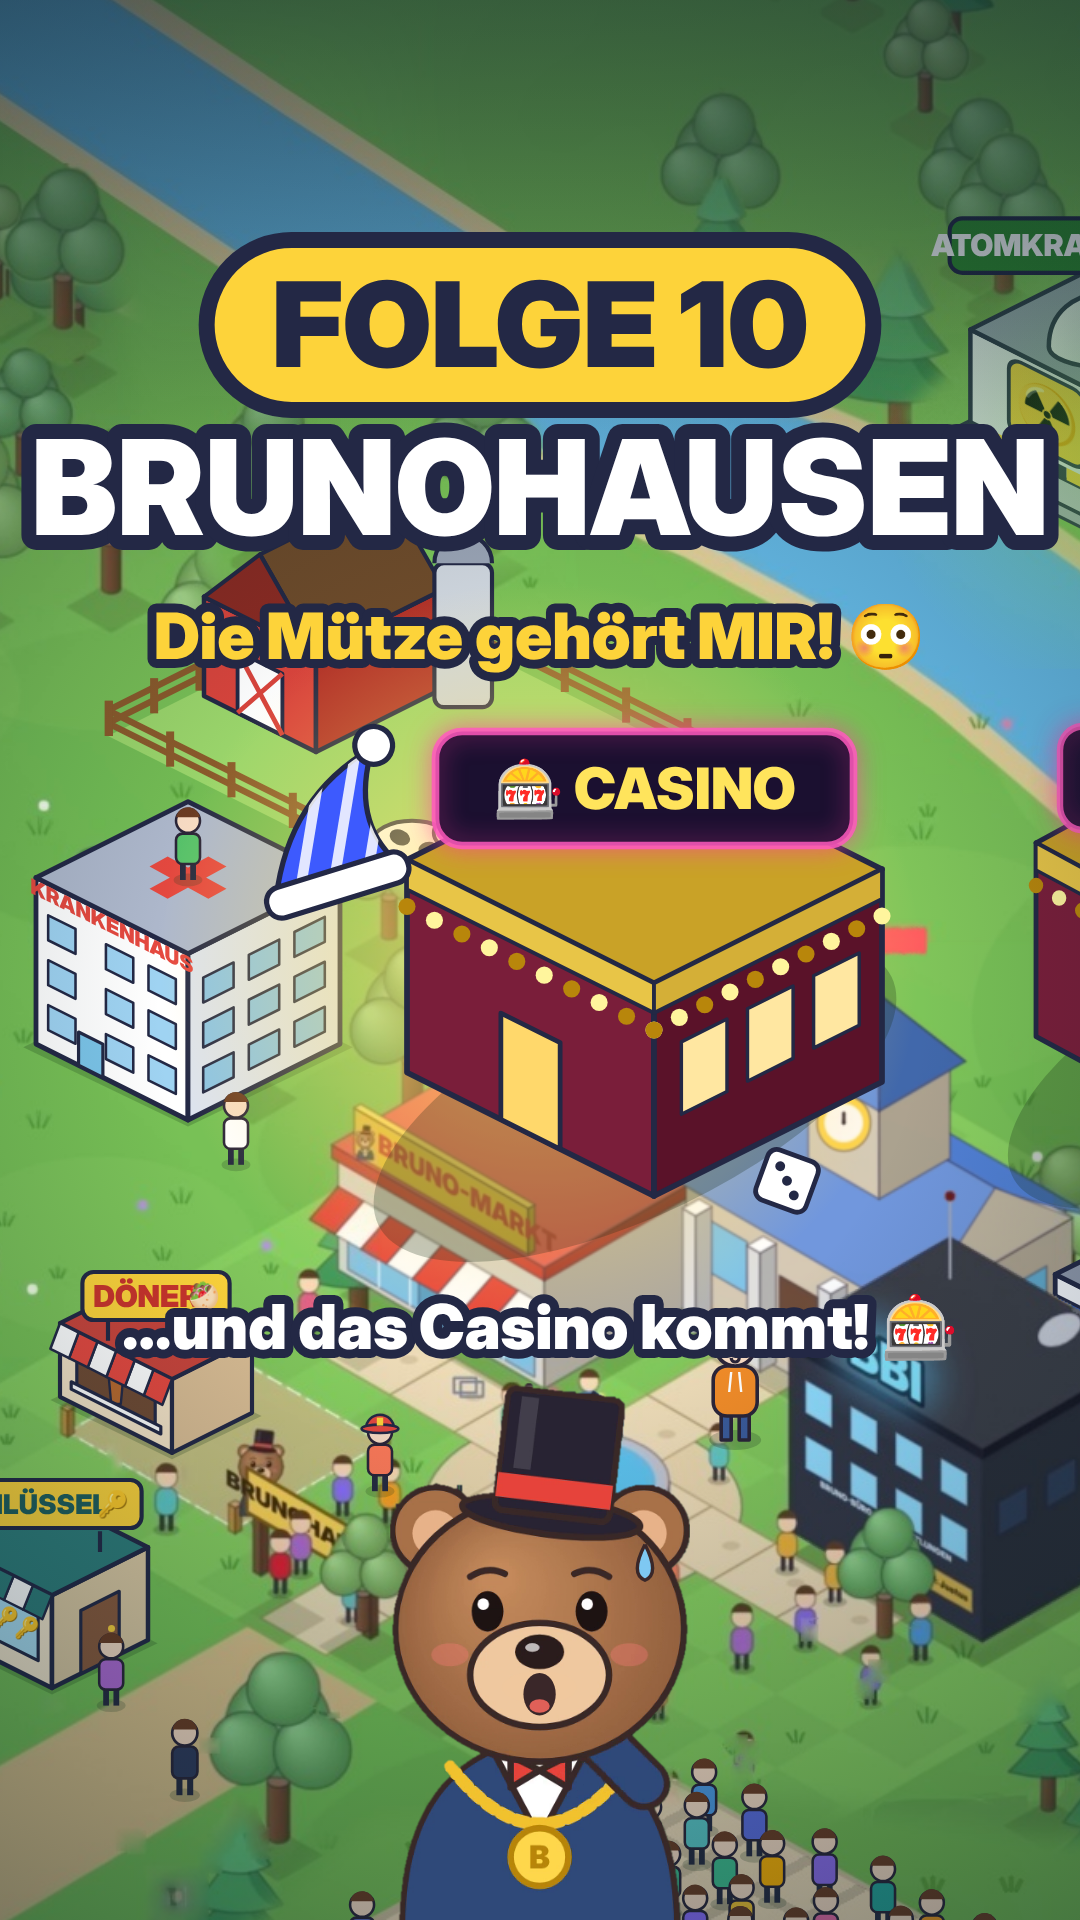
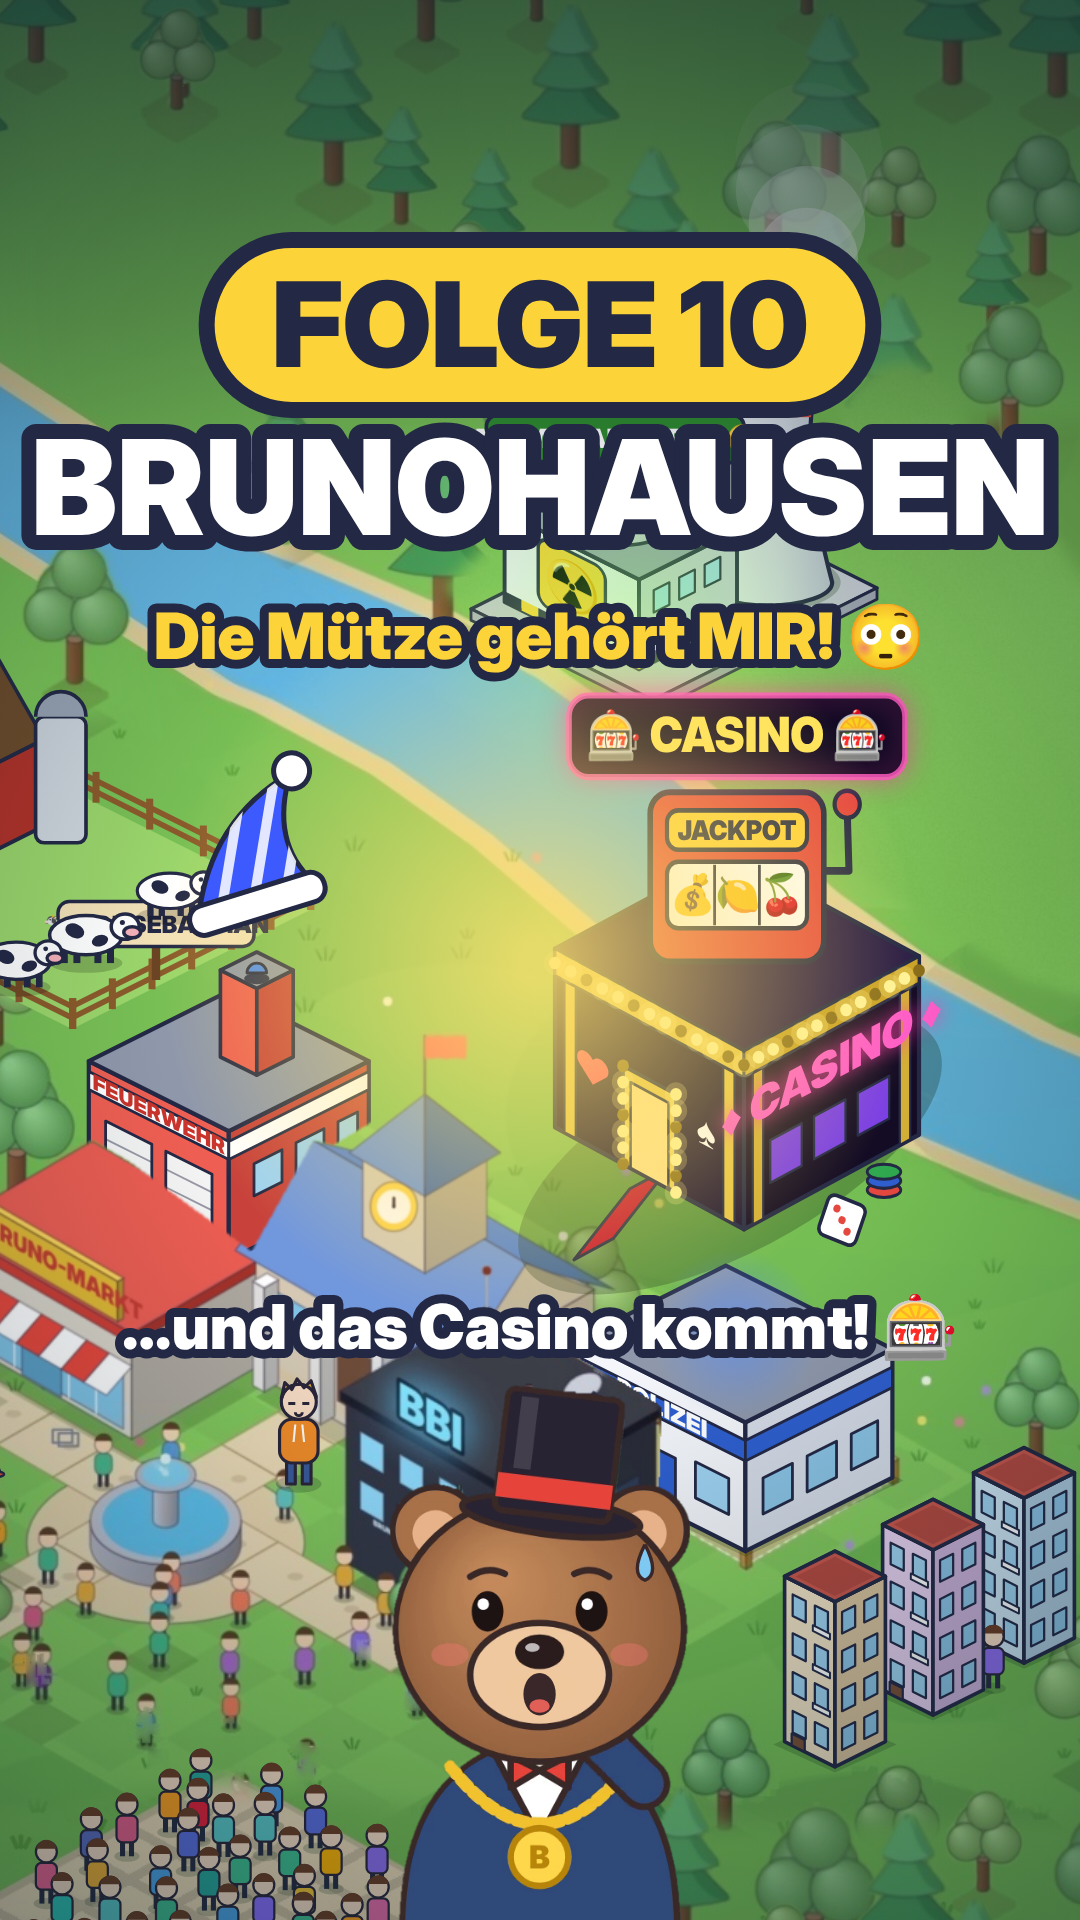
Folge 10: neues Casino-Design + Cover
Claude-Session: https://claude.ai/code/session_01Pr66hNnRLfcFYWMz66UZwJ

diff --git a/studio/folge10/main10.js b/studio/folge10/main10.js
@@ -15,25 +15,49 @@ function bottomPill(t,a=1){if(a<=0)return;ctx.save();ctx.globalAlpha=a;
  ctx.fillText(txt,x+w/2,y+h/2+2);ctx.restore();}
 // ---------- Casino ----------
 function casino(x,y,t){
- ctx.fillStyle='rgba(20,40,20,.25)';ctx.beginPath();ctx.ellipse(x-10,y-50,150,60,-0.45,0,7);ctx.fill();
- const a=120,b=130,h=112;
- const P=box(x,y,a,b,h,'#7A1E3A','#5A1229','#C9A227',3);
- // Goldkante
- poly([onL(P,h,0,0.86),onL(P,h,1,0.86),onL(P,h,1,1),onL(P,h,0,1)],'#E8C547',NAVY,2);
- poly([onR(P,h,0,0.86),onR(P,h,1,0.86),onR(P,h,1,1),onR(P,h,0,1)],'#D4AF37',NAVY,2);
- // Tür links
- poly([onL(P,h,0.38,0),onL(P,h,0.62,0),onL(P,h,0.62,0.5),onL(P,h,0.38,0.5)],'#FFD86B',NAVY,2.5);
- // Fenster rechts mit Glühbirnen
- for(let i=0;i<3;i++)quadR(P,h,0.12+i*0.29,0.32+i*0.29,0.32,0.66,'#FFE7A1',1.8);
- for(let i=0;i<10;i++){const on=Math.floor(t*6+i)%2;const p=onL(P,h,i/9,0.78);ctx.beginPath();ctx.arc(p[0],p[1],4.5,0,7);ctx.fillStyle=on?'#FFF59D':'#B8860B';ctx.fill();}
- for(let i=0;i<10;i++){const on=Math.floor(t*6+i+1)%2;const p=onR(P,h,i/9,0.78);ctx.beginPath();ctx.arc(p[0],p[1],4.5,0,7);ctx.fillStyle=on?'#FFF59D':'#B8860B';ctx.fill();}
- // Neon-Schild
- const top=[x+(a-b)/2,y-(a+b)/4-h];const gl=0.6+0.4*Math.abs(Math.sin(t*4));
- ctx.save();ctx.translate(top[0],top[1]-40);ctx.shadowColor=`rgba(255,60,160,${gl})`;ctx.shadowBlur=24;
- rr(-110,-30,220,60,14);ctx.fillStyle='#1b1030';ctx.fill();ctx.lineWidth=4;ctx.strokeStyle=`rgba(255,90,190,${0.6+0.4*gl})`;ctx.stroke();ctx.shadowBlur=0;
- ctx.font=`900 30px ${F}, ${EMO}`;ctx.textAlign='center';ctx.textBaseline='middle';ctx.fillStyle='#FFE45C';ctx.fillText('🎰 CASINO',0,2);ctx.restore();
- // Würfel
- ctx.save();ctx.translate(x+70,y-8);ctx.rotate(0.3+Math.sin(t*2)*0.05);rr(-14,-14,28,28,5);ctx.fillStyle='#fff';ctx.fill();ctx.lineWidth=2.5;ctx.strokeStyle=NAVY;ctx.stroke();ctx.fillStyle=NAVY;for(const [dx,dy] of[[-6,-6],[6,6],[0,0]]){ctx.beginPath();ctx.arc(dx,dy,2.6,0,7);ctx.fill();}ctx.restore();
+ ctx.fillStyle='rgba(20,40,20,.28)';ctx.beginPath();ctx.ellipse(x-10,y-50,165,66,-0.45,0,7);ctx.fill();
+ const a=125,b=135,h=118;
+ // roter Teppich
+ const Lf=[x-b*0.5,y-b*0.25];poly([[Lf[0]-14,Lf[1]+7],[Lf[0]+14,Lf[1]-7],[Lf[0]-26,Lf[1]+40],[Lf[0]-54,Lf[1]+54]],'#C4122F',NAVY,2);
+ const P=box(x,y,a,b,h,'#1E1433','#140C24','#2A1C46',3);
+ // goldene Säulen
+ for(const u of[0.08,0.92]){poly([onL(P,h,u-0.03,0),onL(P,h,u+0.03,0),onL(P,h,u+0.03,0.85),onL(P,h,u-0.03,0.85)],'#E8C547',NAVY,1.6);}
+ for(const u of[0.08,0.92]){poly([onR(P,h,u-0.03,0),onR(P,h,u+0.03,0),onR(P,h,u+0.03,0.85),onR(P,h,u-0.03,0.85)],'#D4AF37',NAVY,1.6);}
+ // goldenes Band oben
+ poly([onL(P,h,0,0.85),onL(P,h,1,0.85),onL(P,h,1,1),onL(P,h,0,1)],'#E8C547',NAVY,2);
+ poly([onR(P,h,0,0.85),onR(P,h,1,0.85),onR(P,h,1,1),onR(P,h,0,1)],'#C9A227',NAVY,2);
+ // Eingang mit Goldrahmen
+ poly([onL(P,h,0.36,0),onL(P,h,0.64,0),onL(P,h,0.64,0.55),onL(P,h,0.36,0.55)],'#E8C547',NAVY,2.5);
+ poly([onL(P,h,0.40,0),onL(P,h,0.60,0),onL(P,h,0.60,0.48),onL(P,h,0.40,0.48)],'#FFE08A',NAVY,1.8);
+ // Karten-Symbole links
+ ctx.font=`900 26px ${F}, ${EMO}`;ctx.textAlign='center';ctx.textBaseline='middle';
+ [['♠',0.2,'#fff'],['♥',0.8,'#FF4D6D']].forEach(([c,u,col])=>{const p=onL(P,h,u,0.42);ctx.save();ctx.translate(p[0],p[1]);ctx.transform(1,0.5,0,1,0,0);ctx.fillStyle=col;ctx.fillText(c,0,0);ctx.restore();});
+ // rechte Seite: große Leuchtschrift + Fenster
+ for(let i=0;i<3;i++)quadR(P,h,0.15+i*0.25,0.33+i*0.25,0.18,0.42,'#7B3FE4',1.6);
+ {const p=onR(P,h,0.5,0.64);ctx.save();ctx.translate(p[0],p[1]);ctx.transform(1,-0.5,0,1,0,0);const gl=0.6+0.4*Math.abs(Math.sin(t*5));
+  ctx.shadowColor=`rgba(255,60,170,${gl})`;ctx.shadowBlur=18;ctx.font=`900 30px ${F}`;ctx.fillStyle='#FF5CC8';ctx.fillText('♦ CASINO ♦',0,0);ctx.restore();}
+ // Lichterkette ringsum (Marquee)
+ const bulb=(p,k)=>{const on=Math.floor(t*8+k)%3!==0;ctx.beginPath();ctx.arc(p[0],p[1],4.2,0,7);ctx.fillStyle=on?'#FFF59D':'#8a6d1a';ctx.fill();if(on){ctx.beginPath();ctx.arc(p[0],p[1],8,0,7);ctx.fillStyle='rgba(255,240,140,.25)';ctx.fill();}};
+ for(let i=0;i<=12;i++){bulb(onL(P,h,i/12,0.92),i);bulb(onR(P,h,i/12,0.92),i+13);}
+ for(let i=0;i<=6;i++){bulb(onL(P,h,0.36,i/6*0.55),i+30);bulb(onL(P,h,0.64,i/6*0.55),i+40);}
+ // Dach: großer Spielautomat
+ const top=[x+(a-b)/2,y-(a+b)/4-h];
+ ctx.save();ctx.translate(top[0],top[1]+6);
+ rr(-62,-112,124,112,14);ctx.fillStyle='#E5483F';ctx.fill();ctx.lineWidth=4;ctx.strokeStyle=NAVY;ctx.stroke();
+ rr(-50,-100,100,26,8);ctx.fillStyle='#FFD23D';ctx.fill();ctx.lineWidth=3;ctx.stroke();
+ ctx.font=`900 18px ${F}`;ctx.fillStyle=NAVY;ctx.fillText('JACKPOT',0,-86);
+ rr(-50,-66,100,44,8);ctx.fillStyle='#fff';ctx.fill();ctx.stroke();
+ const sym=['🍒','7⃣','💰','⭐','🍋'];for(let i=0;i<3;i++){const k=Math.floor(t*6+i*1.7)%sym.length;ctx.font=`26px ${EMO}`;ctx.fillText(sym[k],-32+i*32,-43);ctx.strokeStyle=NAVY;ctx.lineWidth=2;if(i<2){ctx.beginPath();ctx.moveTo(-16+i*32,-64);ctx.lineTo(-16+i*32,-24);ctx.stroke();}}
+ // Hebel
+ ctx.strokeStyle=NAVY;ctx.lineWidth=5;const lv=Math.sin(t*3)*0.3;ctx.beginPath();ctx.moveTo(62,-60);ctx.lineTo(80,-60);ctx.lineTo(80+Math.sin(lv)*6,-100);ctx.stroke();ctx.beginPath();ctx.arc(80+Math.sin(lv)*6,-104,9,0,7);ctx.fillStyle='#E5483F';ctx.fill();ctx.lineWidth=3;ctx.stroke();
+ // Neon-Schild oben drauf
+ const gl=0.6+0.4*Math.abs(Math.sin(t*4));ctx.shadowColor=`rgba(255,60,160,${gl})`;ctx.shadowBlur=26;
+ rr(-120,-176,240,54,14);ctx.fillStyle='#120a24';ctx.fill();ctx.lineWidth=4;ctx.strokeStyle=`rgba(255,90,190,${0.6+0.4*gl})`;ctx.stroke();ctx.shadowBlur=0;
+ ctx.font=`900 32px ${F}, ${EMO}`;ctx.fillStyle='#FFE45C';ctx.fillText('🎰 CASINO 🎰',0,-148);
+ ctx.restore();
+ // Würfel + Chips vor dem Eingang
+ ctx.save();ctx.translate(x+70,y-6);ctx.rotate(0.3+Math.sin(t*2)*0.05);rr(-14,-14,28,28,5);ctx.fillStyle='#fff';ctx.fill();ctx.lineWidth=2.5;ctx.strokeStyle=NAVY;ctx.stroke();ctx.fillStyle='#E5483F';for(const [dx,dy] of[[-6,-6],[6,6],[0,0]]){ctx.beginPath();ctx.arc(dx,dy,2.6,0,7);ctx.fill();}ctx.restore();
+ for(let i=0;i<3;i++){ctx.beginPath();ctx.ellipse(x+100,y-26-i*6,12,5,0,0,7);ctx.fillStyle=['#E5483F','#2F5FD0','#2FA84F'][i];ctx.fill();ctx.lineWidth=2;ctx.strokeStyle=NAVY;ctx.stroke();}
 }
 // ---------- Bauernhof ----------
 function cow(x,y,s,t,ph){ctx.save();ctx.translate(x,y+Math.sin(t*3+ph)*1.5);ctx.scale(s,s);

diff --git a/studio/folge10/cover10.js b/studio/folge10/cover10.js
@@ -5,12 +5,12 @@ pg.on('pageerror',e=>console.log('ERR',e.message));
 await pg.goto('file://'+process.cwd()+'/render10.html');await pg.evaluate(w=>window.init(w[0],w[1]),[words,res4]);
 await pg.evaluate(()=>{
  const t=T.farmLand+2;
- captions=()=>{};hud=()=>{};bottomPill=()=>{};yelPill=()=>{};tag=()=>{};bubble=()=>{};stamp=()=>{};cam=()=>[400,760,1.6];frame(t);
+ captions=()=>{};hud=()=>{};bottomPill=()=>{};yelPill=()=>{};tag=()=>{};bubble=()=>{};stamp=()=>{};cam=()=>[CASP[0]-40,CASP[1]-250,1.4];frame(t);
  let g=ctx.createRadialGradient(540,1000,380,540,1000,1250);g.addColorStop(0,'rgba(10,30,40,0)');g.addColorStop(1,'rgba(10,30,40,.55)');ctx.fillStyle=g;ctx.fillRect(0,0,1080,1920);
  g=ctx.createLinearGradient(0,0,0,450);g.addColorStop(0,'rgba(15,30,45,.35)');g.addColorStop(1,'rgba(15,30,45,0)');ctx.fillStyle=g;ctx.fillRect(0,0,1080,450);
  const gl=ctx.createRadialGradient(540,960,20,540,960,380);gl.addColorStop(0,'rgba(255,225,110,.8)');gl.addColorStop(1,'rgba(255,225,110,0)');ctx.fillStyle=gl;ctx.fillRect(120,560,840,800);
- ctx.save();ctx.translate(540,1120);ctx.scale(1.9,1.9);casino(60,40,t);ctx.restore();
- nightcap(330,860,1.05,-0.3);
+ 
+ nightcap(250,880,1.0,-0.3);
  bigBruno(540,1950,0.85,true,0,false);
  ctx.save();ctx.font=`900 118px ${F}`;const lab='FOLGE 10';const lw=ctx.measureText(lab).width+130;
  rr(540-lw/2,240,lw,170,85);ctx.fillStyle=YEL;ctx.fill();ctx.lineWidth=16;ctx.strokeStyle=NAVY;ctx.stroke();
@@ -19,4 +19,4 @@ await pg.evaluate(()=>{
  strokeText('Die Mütze gehört MIR! 😳',540,640,64,YEL,NAVY,18);
  strokeText("…und das Casino kommt! 🎰",540,1330,62,'#fff',NAVY,18);
 });
-await pg.screenshot({path:'/home/claude/w10/cover_folge10.png'});await b.close();})();
+await pg.screenshot({path:'/home/claude/w10/cover_folge10_neu.png'});await b.close();})();
